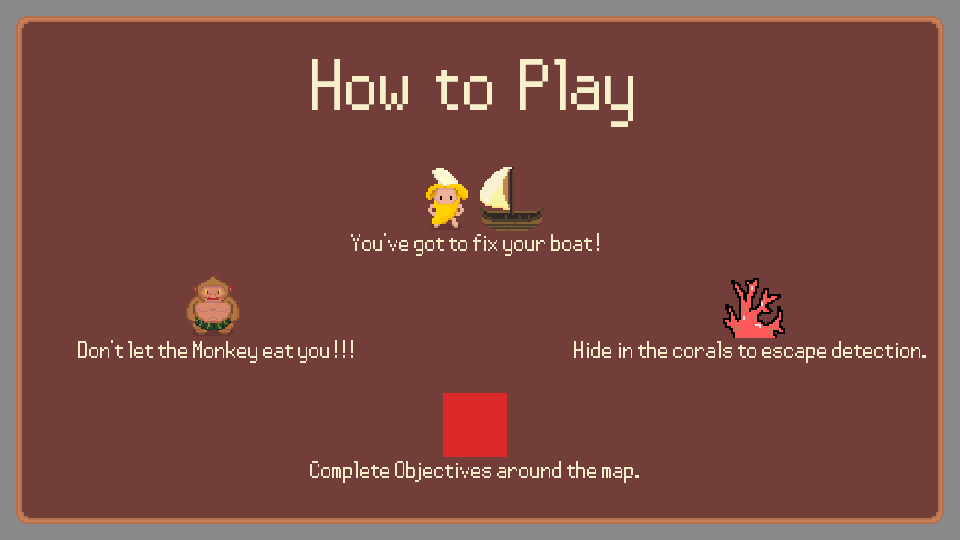
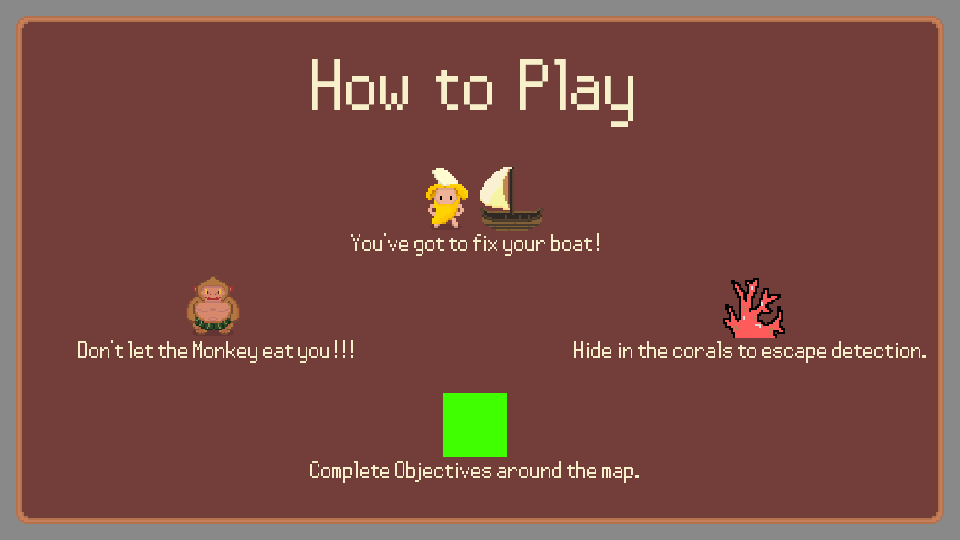
Updated "How to Play" image, and added it to Level One.

Changed region(s): [[0.4375, 0.7111, 0.5312, 0.8593]]

diff --git a/gam100-sample/source/LevelOne.c b/gam100-sample/source/LevelOne.c
@@ -32,44 +32,44 @@ static GameObject* bananaBoi = NULL;
 static AStar_Map map;
 FSM* enemy;
 
-int IsGamePaused;
+static GameObject* howtoplay = NULL;
+static GameObject* close = NULL;
+static bool isPaused;
 LinkedList* pauseMenus;
-/*!
-@brief This function initialises the pause menu
-the function will return value 0x87654321.
-@return void
-*//*______________________________________________________________*/
+
+/// <summary>
+/// Function declaration for: Initializes the pause menu.
+/// </summary>
 void InitPause();
-/*!
-@brief Sets if pause is on or off
-@param isPause - 1 to pause 0 to unpause
-@return void
-*//*______________________________________________________________*/
+/// <summary>
+/// Function declaration for: Setter for pause state.
+/// </summary>
+/// <param name="isPause">New pause state.</param>
 void SetPause(int isPause);
-/*!
-@brief This function checks if pauses is on
-@return int - true or false of pause state
-*//*______________________________________________________________*/
+/// <summary>
+/// Function declaration for: Checks if game is paused or not.
+/// </summary>
+/// <returns>Pause state of the game.</returns>
 int IsPaused();
-/*!
-@brief This function clears memory used by pause menu
-@return void
-*//*______________________________________________________________*/
+/// <summary>
+/// Function declaration for: Clears memory allocated by pause.
+/// </summary>
 void ClearPause();
 
 GameObject* GameFpsCounterObj;
-/*!
-@brief Initialises the fps counter gameobject
-@return void
-*//*______________________________________________________________*/
+/// <summary>
+/// Function declaration for: Initializes framerate display object.
+/// </summary>
 void InitDrawFPS();
 
-/*!
-@brief Initialises AStar map grid for this level.
-@return void
-*//*______________________________________________________________*/
+/// <summary>
+/// Initializes A* Pathfinding for this level.
+/// </summary>
 void LevelOne_AStarInit(void);
 
+/// <summary>
+/// Called whenever collision occurs.
+/// </summary>
 void LevelOne_OnCollision(Collider* left, Collider* right)
 {
     if (strcmp(right->obj->tag, ONCLICK_TAG) == 0)
@@ -82,9 +82,18 @@ void LevelOne_OnCollision(Collider* left, Collider* right)
         {
             SceneManager_ChangeSceneByName("mainmenu");
         }
+        else if (strcmp(((GameObject*)left->obj)->tag, "exit") == 0)
+        {
+            howtoplay->isEnabled = 0;
+            close->isEnabled = 0;
+            SetPause(false);
+        }
     }
 }
 
+/// <summary>
+/// Initializes this level.
+/// </summary>
 void LevelOne_init(void)
 {
     SM_SystemsInit();
@@ -110,6 +119,27 @@ void LevelOne_init(void)
     InitPause();
     InitDrawFPS();
 
+    // Scene UI
+    {
+        // render how to play
+        howtoplay = GOM_Create2(RECTANGLE, CP_Vector_Set(0.5f * screenWidth, 0.5f * screenHeight), 0.0f, CP_Vector_Set(screenWidth, screenHeight));
+        howtoplay->tag = "credits";
+        Renderer* howtoplayRenderer = RM_AddComponent(howtoplay);
+        howtoplayRenderer->renderPriority = PRI_UI;
+        RM_LoadImage(howtoplayRenderer, "Assets/scenes/howtoplay.png");
+        // close button
+        close = GOM_Create(RECTANGLE);
+        close->position = CP_Vector_Set(screenWidth * 0.975f, screenHeight * 0.045f);
+        close->scale = CP_Vector_Set(50, 50);
+        close->tag = "exit";
+        Collider* closeCollider = CLM_AddComponent(close);
+        CLM_Set(closeCollider, COL_BOX, LevelOne_OnCollision);
+        closeCollider->space = COLSPC_SCREEN;
+        Renderer* closeRender = RM_AddComponent(close);
+        closeRender->renderPriority = PRI_UI;
+        RM_LoadImage(closeRender, "Assets/cross.png");
+    }
+
     // AStar
     {
         AStar_InitializeMap(&map, NumGrids, NumGrids);
@@ -125,8 +155,14 @@ void LevelOne_init(void)
 
     SDM_Init();
     SDM_PlayBgMusic(2);
+
+    // Set game to be paused at the start.
+    SetPause(true);
 }
 
+/// <summary>
+/// Update loop called every frame.
+/// </summary>
 void LevelOne_update(void)
 {
     SM_SystemsPreUpdate();
@@ -148,9 +184,11 @@ void LevelOne_update(void)
     RM_SetText(r, t);
 
     SM_SystemsLateUpdate();
-    LevelOneUI_render(); 
 }
 
+/// <summary>
+/// Called upon scene exit.
+/// </summary>
 void LevelOne_exit(void)
 {
     ClearPause();
@@ -161,6 +199,12 @@ void LevelOne_exit(void)
     SDM_FreeSounds();
 }
 
+/// <summary>
+/// Called by SceneManager to register function pointers for scene init, update and exit.
+/// </summary>
+/// <param name="init">Init function for this scene.</param>
+/// <param name="update">Update function for this scene</param>
+/// <param name="exit">Exit function for this scene</param>
 void LevelOne_sceneInit(FunctionPtr* init, FunctionPtr* update, FunctionPtr* exit)
 {
     *init = LevelOne_init;
@@ -168,14 +212,9 @@ void LevelOne_sceneInit(FunctionPtr* init, FunctionPtr* update, FunctionPtr* exi
     *exit = LevelOne_exit;
 }
 
-void LevelOneUI_render()
-{
-    CP_Settings_Fill(COLOR_WHITE); // r, g, b, a
-    //CP_Graphics_DrawRect(50.f, 170.f, 75.f, 50.f);
-    CP_Settings_Fill(COLOR_BLACK); // r, g, b, a
-    //CP_Font_DrawText("Objective", 55, 200);
-}
-
+/// <summary>
+/// Initializes all colliders within this scene.
+/// </summary>
 void LevelOneGridColliderInit()
 {
     for (int i = 0; i < NumGrids; i++)
@@ -195,11 +234,9 @@ void LevelOneGridColliderInit()
     }
 }
 
-/*!
-@brief This function initialises the pause menu
-the function will return value 0x87654321.
-@return void
-*//*______________________________________________________________*/
+/// <summary>
+/// Initializes the pause menu.
+/// </summary>
 void InitPause()
 {
     pauseMenus = NULL;
@@ -256,8 +293,13 @@ void InitPause()
         t->isEnabled = 0;
     }
 }
+/// <summary>
+/// Setter for pause state.
+/// </summary>
+/// <param name="isPause">New pause state.</param>
 void SetPause(int isPause)
 {
+    isPaused = isPause;
     LinkedList* n = pauseMenus;
     for (; n; n = n->next)
     {
@@ -265,21 +307,21 @@ void SetPause(int isPause)
         g->isEnabled = isPause;
     }
 }
-/*!
-@brief This function checks if pauses is on
-@return int - true or false of pause state
-*//*______________________________________________________________*/
+/// <summary>
+/// Checks if game is paused or not.
+/// </summary>
+/// <returns>Pause state of the game.</returns>
 int IsPaused()
 {
     if (CP_Input_KeyTriggered((CP_KEY)KEY_ESCAPE) || CP_Input_KeyTriggered((CP_KEY)KEY_P))
     {
         SetPause(1);
     }
-    int b_IsPaused = 0;
+    isPaused = false;
     if (pauseMenus)
-        b_IsPaused = ((GameObject*)pauseMenus->curr)->isEnabled;
+        isPaused = ((GameObject*)pauseMenus->curr)->isEnabled;
     
-    if (b_IsPaused)
+    if (isPaused)
     {
         LinkedList* n = pauseMenus; GameObject* button = NULL;
         for (; n; n = n->next)
@@ -324,22 +366,20 @@ int IsPaused()
         }
 
     }
-    
 
-
-
-    return b_IsPaused;
+    return isPaused;
 }
-/*!
-@brief This function clears memory used by pause menu
-@return void
-*//*______________________________________________________________*/
+/// <summary>
+/// Clears memory allocated by pause.
+/// </summary>
 void ClearPause()
 {
     LL_Clear(&pauseMenus);
     pauseMenus = NULL;
 }
-
+/// <summary>
+/// Initializes framerate display object.
+/// </summary>
 void InitDrawFPS()
 {
     RM_GetRenderSize(&screenWidth, &screenHeight, PRI_UI);
@@ -358,15 +398,16 @@ void InitDrawFPS()
     GameFpsCounterObj->isEnabled = 1;
 #endif
 }
-
+/// <summary>
+/// Renders the framerate counter.
+/// </summary>
 void RenderFpsCounter()
 {
 }
 
-/*!
-@brief Initialises AStar map grid for this level.
-@return void
-*//*______________________________________________________________*/
+/// <summary>
+/// Initialises AStar map grid for this level.
+/// </summary>
 void LevelOne_AStarInit(void)
 {
     for (int r = 0; r < map.rows; ++r)

diff --git a/gam100-sample/source/LevelOne_AStar.c b/gam100-sample/source/LevelOne_AStar.c
@@ -106,7 +106,7 @@ void LevelOneAStar_init(void)
         c->space = COLSPC_SCREEN;
         CLM_Set(c, COL_BOX, LevelOneAStar_OnCollision);
 
-
+        // Objective UI background.
         GameObject* ObjectiveUIBox = GOM_Create(WALL);
         ObjectiveUIBox->scale = CP_Vector_Set(200.f, 70.f);
         ObjectiveUIBox->position = CP_Vector_Set(120.0f, 50.0f);
